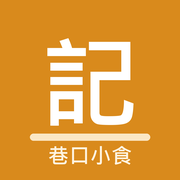
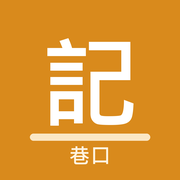
名稱改為巷口

Changed region(s): [[0.2778, 0.8056, 0.7222, 0.9167]]

diff --git a/index.html b/index.html
@@ -3,7 +3,7 @@
 <head>
 <meta charset="utf-8">
 <meta name="viewport" content="width=device-width,initial-scale=1,viewport-fit=cover,maximum-scale=1">
-<title>巷口小食記帳</title>
+<title>巷口記帳</title>
 <meta name="apple-mobile-web-app-capable" content="yes">
 <meta name="mobile-web-app-capable" content="yes">
 <meta name="apple-mobile-web-app-title" content="巷口記帳">
@@ -209,7 +209,7 @@ nav.tabs button.plus svg{width:26px;height:26px}
 </head>
 <body>
 <div id="setup" hidden>
-  <h1>巷口小食記帳</h1>
+  <h1>巷口記帳</h1>
   <p>請輸入通關密碼（就是 Google 試算表「設定」頁 B1 格的數字）。每支手機只要輸入一次。</p>
   <input type="text" id="pinIn" inputmode="numeric" pattern="[0-9]*" autocomplete="off" placeholder="通關密碼" class="pin" aria-label="通關密碼">
   <p class="banner" id="setupMsg" hidden></p>
@@ -219,7 +219,7 @@ nav.tabs button.plus svg{width:26px;height:26px}
 <div id="app">
   <header class="bar">
     <span class="dot" id="sync" title="已同步"></span>
-    <h1>巷口小食記帳</h1>
+    <h1>巷口記帳</h1>
     <div class="who" id="who"><button type="button" data-who="禎">禎</button><button type="button" data-who="雅">雅</button></div>
   </header>
 
@@ -293,7 +293,7 @@ nav.tabs button.plus svg{width:26px;height:26px}
         <tr class="row" id="csv"><td class="item">分享本月明細</td><td class="r muted">Excel 可開 ›</td></tr>
         <tr class="row" id="logout"><td class="item">換通關密碼</td><td class="r muted" id="logoutHint">›</td></tr>
       </table>
-      <p class="note">帳都存在 Google 試算表「巷口小食帳本」，沒網路時會先存在手機，有網路再自動傳上去。</p>
+      <p class="note">帳都存在 Google 試算表「巷口帳本」，沒網路時會先存在手機，有網路再自動傳上去。</p>
     </section>
 
     <!-- 帳戶 -->
@@ -322,7 +322,7 @@ nav.tabs button.plus svg{width:26px;height:26px}
   </main>
 
   <nav class="tabs" id="tabsNav">
-    <button type="button" data-tab="list"><svg viewBox="0 0 24 24" fill="none" stroke="currentColor" stroke-width="2" stroke-linecap="round" stroke-linejoin="round"><path d="M4 20h4L19 9l-4-4L4 16v4zM13.5 6.5l4 4"/></svg>巷口小食館</button>
+    <button type="button" data-tab="list"><svg viewBox="0 0 24 24" fill="none" stroke="currentColor" stroke-width="2" stroke-linecap="round" stroke-linejoin="round"><path d="M4 20h4L19 9l-4-4L4 16v4zM13.5 6.5l4 4"/></svg>巷口</button>
     <button type="button" data-tab="acct"><svg viewBox="0 0 24 24" fill="none" stroke="currentColor" stroke-width="2" stroke-linecap="round" stroke-linejoin="round"><path d="M3 10h18L12 4 3 10zM5 10v8M9.5 10v8M14.5 10v8M19 10v8M3 20h18"/></svg>帳戶</button>
     <button type="button" data-tab="add" class="plus"><svg viewBox="0 0 24 24" fill="none" stroke="currentColor" stroke-width="2.6" stroke-linecap="round"><path d="M12 4v16M4 12h16"/></svg>記一筆</button>
     <button type="button" data-tab="rep"><svg viewBox="0 0 24 24" fill="none" stroke="currentColor" stroke-width="2" stroke-linecap="round" stroke-linejoin="round"><path d="M12 3v9h9A9 9 0 1 1 12 3zM15 3.5A9 9 0 0 1 20.5 9H15V3.5z"/></svg>圖表分析</button>
@@ -356,6 +356,6 @@ nav.tabs button.plus svg{width:26px;height:26px}
   </div>
 </div>
 <div class="toast" id="toast" hidden></div>
-<script src="app.js?v=21"></script>
+<script src="app.js?v=22"></script>
 </body>
 </html>

diff --git a/app.js b/app.js
@@ -1,4 +1,4 @@
-// 巷口小食記帳（獨立 app 版）— 帳存在 Google 試算表，手機上離線也能先記，有網路再自動傳上去
+// 巷口記帳（獨立 app 版）— 帳存在 Google 試算表，手機上離線也能先記，有網路再自動傳上去
 // 第 7 版：記帳畫面改成跟天天記帳一樣（一頁完成：大類 → 品項 → 計算機），明細／報表改成表格，可搜尋
 const API_URL = "https://script.google.com/macros/s/AKfycbx_lJFH3PPLeauWDsYj7fR4N60zBcOlwSEfLcyYxN-T1G-C0cQobNS5ZkScbcjx-fE-6A/exec";
 
@@ -644,7 +644,7 @@ $("csv").onclick=async()=>{
   const q=v=>'"'+String(v??"").replace(/"/g,'""')+'"';
   const lines=[["日期","收支","店/家用","類別","品項","備註","金額","帳戶","記帳人"].join(",")];
   for(const e of list) lines.push([e.date,e.type==="in"?"收入":e.type==="tr"?"轉帳":"支出",e.type==="tr"?"":isHome(e)?"家用":"店",e.cat,e.type==="tr"?"":itemOf(e),e.type==="tr"?e.note:memoOf(e),e.amount,e.pay,e.who].map(q).join(","));
-  const name="巷口小食_"+S.repYm+".csv";
+  const name="巷口_"+S.repYm+".csv";
   const file=new File([""+lines.join("\r\n")],name,{type:"text/csv"});
   try{
     if(navigator.canShare && navigator.canShare({files:[file]})) await navigator.share({files:[file], title:name});

diff --git a/sw.js b/sw.js
@@ -1,6 +1,6 @@
 // 讓 app 沒網路也打得開（帳另外存在手機，有網路再傳）
-const C = "xiangkou-v" + "21";
-const FILES = ["./", "index.html", "app.js?v=" + "21", "manifest.json", "icon-180.png", "icon-192.png"];
+const C = "xiangkou-v" + "22";
+const FILES = ["./", "index.html", "app.js?v=" + "22", "manifest.json", "icon-180.png", "icon-192.png"];
 self.addEventListener("install", e => { e.waitUntil(caches.open(C).then(c => c.addAll(FILES))); self.skipWaiting(); });
 self.addEventListener("activate", e => { e.waitUntil(caches.keys().then(ks => Promise.all(ks.filter(k => k !== C).map(k => caches.delete(k))))); self.clients.claim(); });
 self.addEventListener("fetch", e => {
